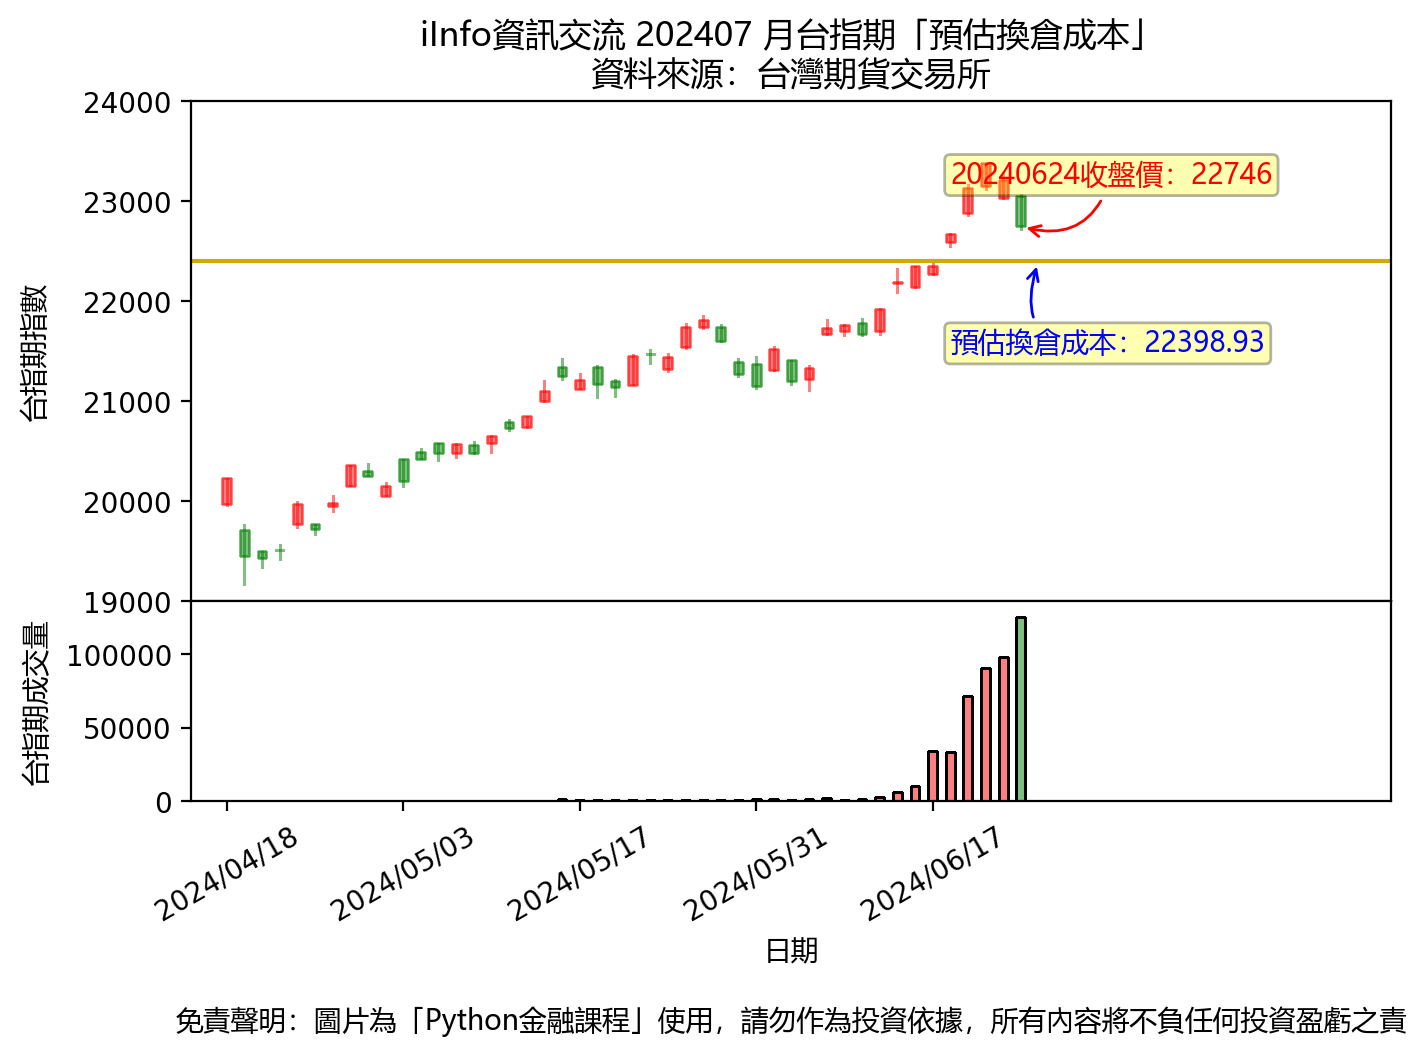
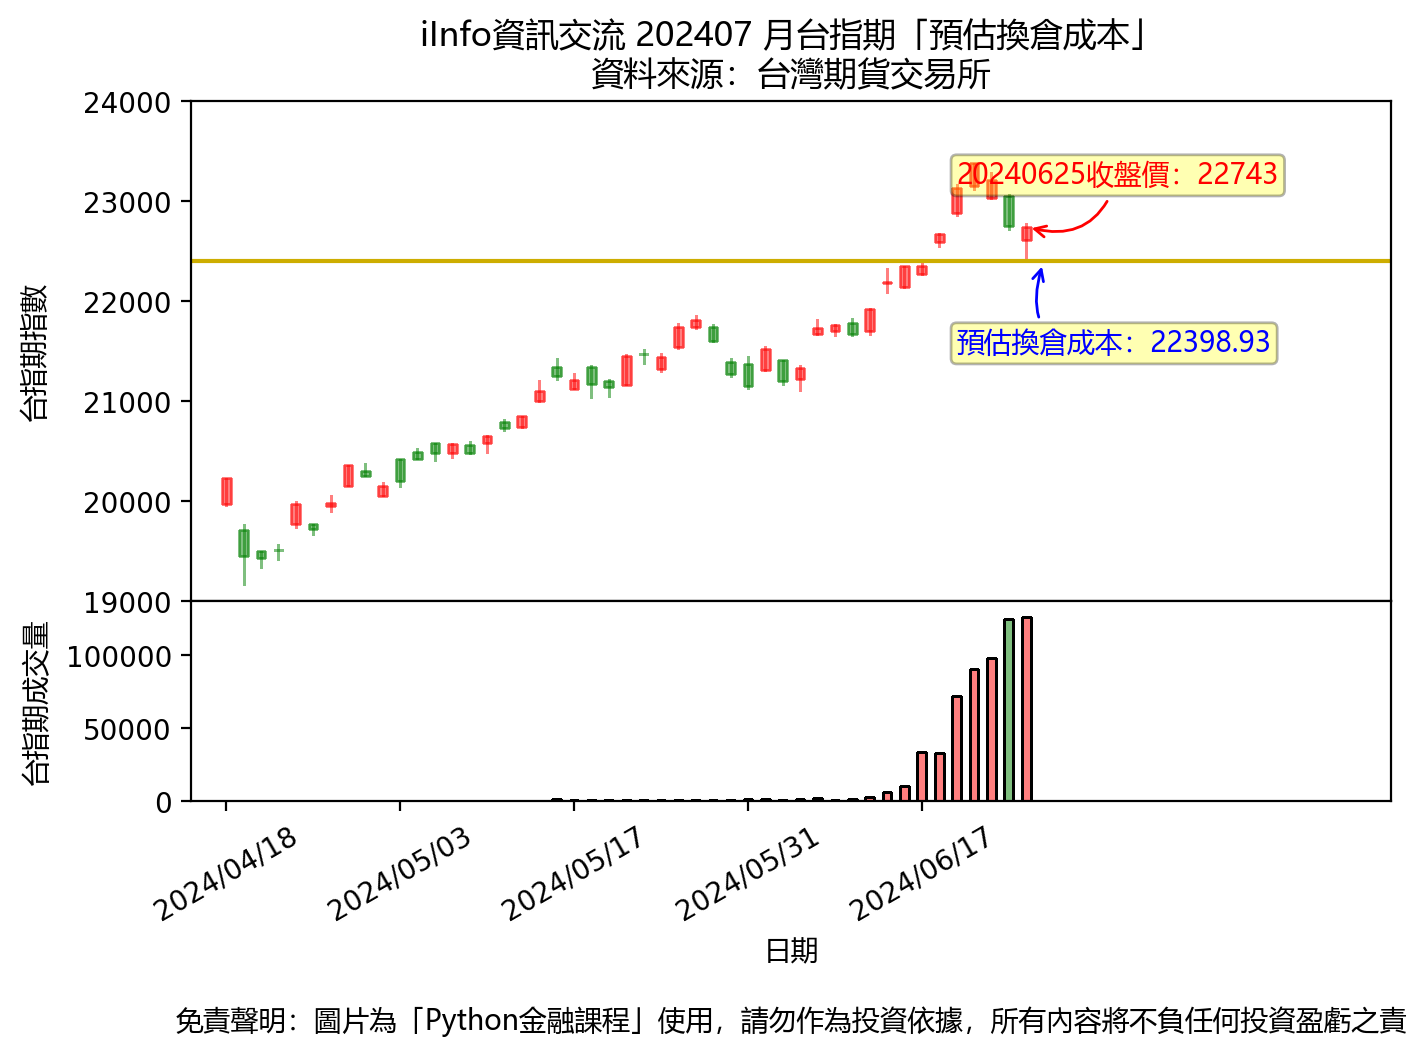
更新時間: Tue Jun 25 16:03:34 CST 2024

diff --git a/README.md b/README.md
@@ -1,9 +1,9 @@
-## 20240624 台指期「預估換倉成本」
+## 20240625 台指期「預估換倉成本」
 ![](txfcost.png)
 
-## 20240624 台指期「散戶小台多空比」
+## 20240625 台指期「散戶小台多空比」
 ![](bbiri.png)
 
-## 20240624 台指選擇權「Put/Call Ratios」
+## 20240625 台指選擇權「Put/Call Ratios」
 ![](pcratio.png)
 
